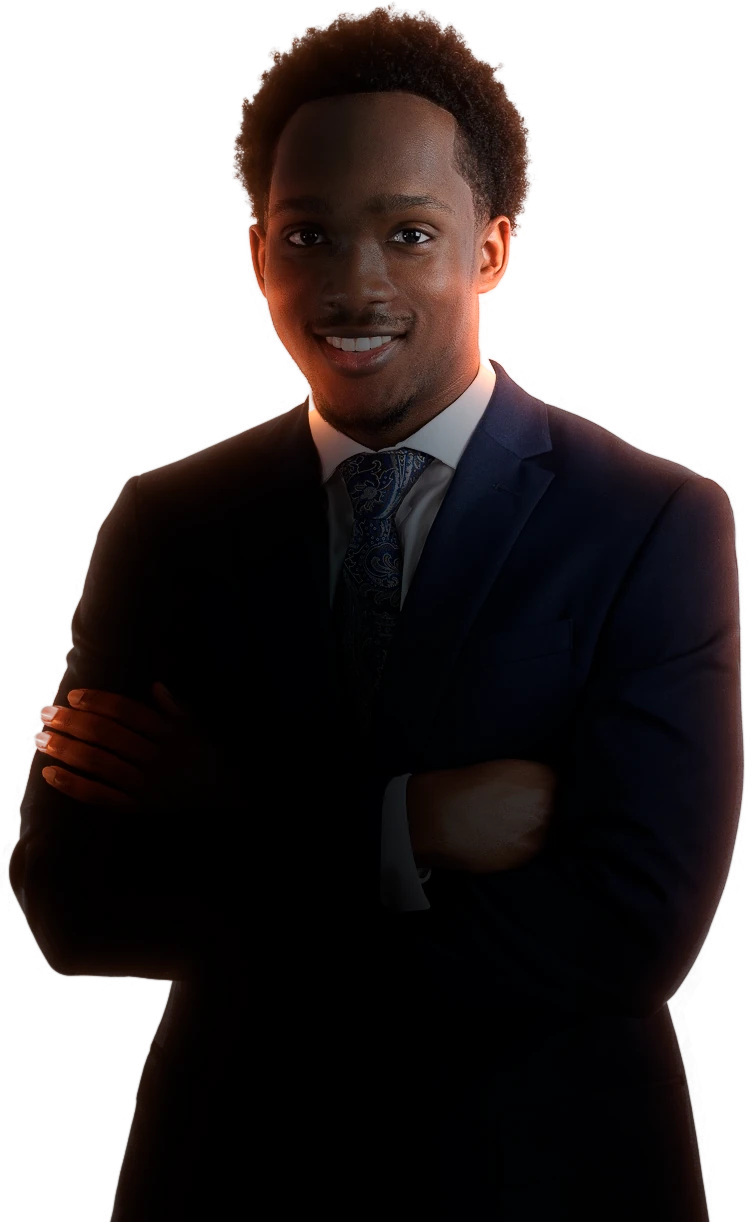
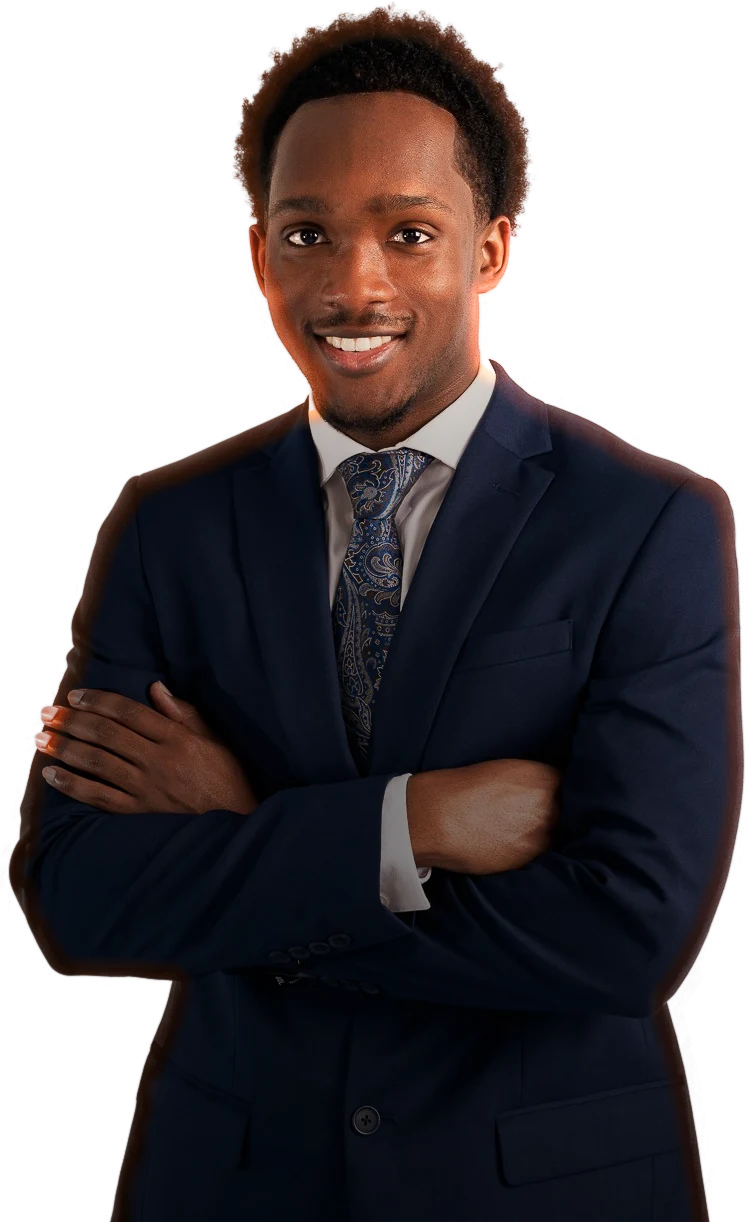
Use the brighter hero portrait, matching portfolio2
Brings over the warmer re-light of the hero cut-out from portfolio2: the
face kept near studio exposure with a warm key light from camera-right,
the suit falling off into the red. Same alpha and size, so the hero
safe-zone check still passes at all nine viewports.

- assets/images/home/hero-reach.webp: the brighter version
- tools/relight-hero.py: the script that produces it
- README and the hero alt text describe the new grade
- og-home.jpg re-rendered from the new hero

Both repos are now identical.

Claude-Session: https://claude.ai/code/session_01Wksg97bj4J1xHZUjKxUufA

diff --git a/index.html b/index.html
@@ -75,7 +75,7 @@
         <img class="home-hero__sky" src="assets/images/home/nashville.svg" alt="" width="1600" height="324" decoding="async">
         <p class="home-hero__word" aria-hidden="true">Reach</p>
         <figure class="home-hero__figure">
-          <img src="assets/images/home/hero-reach.webp" alt="Emmanuel Appiadjei in a navy suit, arms crossed, lit low against an orange backdrop" width="754" height="1222" fetchpriority="high" decoding="async">
+          <img src="assets/images/home/hero-reach.webp" alt="Emmanuel Appiadjei in a navy suit, arms crossed, lit warm against an orange backdrop" width="754" height="1222" fetchpriority="high" decoding="async">
         </figure>
       </div>
     </section>

diff --git a/tools/relight-hero.py b/tools/relight-hero.py
@@ -1,0 +1,75 @@
+"""Regrade the hero cut-out from the studio original.
+
+usage: python3 tools/relight-hero.py images/portrait-studio-arms.jpg \
+         assets/images/home/hero-reach.webp out.webp [core-erosion=15]
+
+The cut-out is a 1:1 crop of the original at (168, 128). Its alpha (and the
+amber glow painted into the soft edge) is kept; the interior is relit from
+the original: face near studio exposure, warm key from camera-right where
+the hero glow sits, body falling off into the red.
+"""
+import sys
+import numpy as np
+from PIL import Image, ImageFilter
+orig_p, cut_p, out_p = sys.argv[1:4]
+cut = Image.open(cut_p).convert('RGBA')
+W, H = cut.size
+alpha = np.asarray(cut)[..., 3].astype(np.float32) / 255
+src = Image.open(orig_p).convert('RGB').crop((168, 128, 168 + W, 128 + H))
+rgb = np.asarray(src).astype(np.float32) / 255
+lin = rgb ** 2.2
+solid = (alpha > 0.98).astype(np.float32)
+er = np.asarray(Image.fromarray((solid*255).astype(np.uint8)).filter(ImageFilter.MinFilter(7))).astype(np.float32)/255
+num = np.zeros_like(lin); den = np.zeros_like(er)
+for r in (4, 10, 24):
+    bl = lambda a: np.asarray(Image.fromarray(a).filter(ImageFilter.GaussianBlur(r))).astype(np.float32)
+    n = np.dstack([bl((lin[..., i]*er*255).astype(np.uint8)) for i in range(3)])/255
+    d = bl((er*255).astype(np.uint8))/255
+    m = (den < 0.05)
+    num[m] = n[m]; den[m] = d[m]
+fill = num / np.maximum(den, 1e-3)[..., None]
+lin = lin * er[..., None] + np.clip(fill, 0, 1) * (1 - er[..., None])
+
+yy, xx = np.mgrid[0:H, 0:W].astype(np.float32)
+u, v = xx / W, yy / H
+
+# Ambient: darken the body toward the bottom so the suit sinks into the red,
+# but keep the head near studio exposure.
+head = np.exp(-(((u - 0.505) / 0.24) ** 2 + ((v - 0.17) / 0.17) ** 2))
+fall = np.clip(1 - (v - 0.22) / 0.78, 0, 1)
+ambient = 0.10 + 0.16 * fall + 0.62 * head
+
+# Key light from camera-right / above, where the hero's amber glow sits.
+key = np.clip(0.5 + 0.9 * (u - 0.5), 0, 1) * np.clip(1.2 - v * 1.1, 0, 1)
+key = key * (0.35 + 0.65 * head)
+gain = ambient + 0.30 * key
+
+# Warm the light: amber key, slightly cooler shadows kept dark.
+warm = np.stack([1.10, 0.93, 0.78])
+light = gain[..., None] * (1 + (warm - 1) * np.clip(key + 0.4 * head, 0, 1)[..., None])
+out = lin * light
+
+# Rim light along the silhouette, stronger on the glow side.
+a_img = Image.fromarray((alpha * 255).astype(np.uint8))
+inner = np.asarray(a_img.filter(ImageFilter.MinFilter(9)).filter(ImageFilter.GaussianBlur(6))).astype(np.float32) / 255
+rim = np.clip(alpha - inner, 0, 1)
+rim = np.asarray(Image.fromarray((rim * 255).astype(np.uint8)).filter(ImageFilter.GaussianBlur(3))).astype(np.float32) / 255
+rim *= 0.35 + 0.65 * np.clip(u * 1.4 - 0.2, 0, 1)
+rim *= np.clip(1.25 - v, 0.2, 1)
+out += rim[..., None] * np.array([1.0, 0.55, 0.22]) * 0.32
+
+# Soft filmic shoulder so the white shirt and teeth don't clip.
+out = out / (1 + 0.35 * out)
+out = out / (1 / (1 + 0.35))
+res = np.clip(out, 0, 1) ** (1 / 2.2)
+# Gentle contrast S-curve.
+res = res + 0.12 * (res - 0.5) * (1 - np.abs(2 * res - 1))
+res = np.clip(res, 0, 1)
+# The cut-out's soft edge carries a painted amber glow; keep those pixels from
+# the existing cut-out and use the relit photo only for the solid interior.
+cut_rgb = np.asarray(cut)[..., :3].astype(np.float32) / 255
+core = Image.fromarray(((alpha > 0.995) * 255).astype(np.uint8)).filter(ImageFilter.MinFilter(int(sys.argv[4]) if len(sys.argv) > 4 else 15))
+core = np.asarray(core.filter(ImageFilter.GaussianBlur(4))).astype(np.float32)[..., None] / 255
+res = res * core + cut_rgb * (1 - core)
+img = np.dstack([res * 255, alpha * 255]).astype(np.uint8)
+Image.fromarray(img, 'RGBA').save(out_p, 'WEBP', quality=88, method=6)

diff --git a/README.md b/README.md
@@ -224,9 +224,11 @@ reaches the top of the viewport.
 
 The hero portrait (`assets/images/home/hero-reach.webp`) is the studio photo
 `images/portrait-studio-arms.jpg` with the background removed and a light and
-colour grade to match the orange reference: darker overall, light from one
-side, a warm glow along the edges. Nothing in the photo is generated or
-reshaped; the grade only changes light and colour.
+colour grade to match the orange hero: the face kept near studio exposure with
+a warm key light from camera-right (where the hero's amber glow sits), the suit
+falling off into the red, and a warm glow along the edges. Regenerate it with
+`tools/relight-hero.py`. Nothing in the photo is generated or reshaped; the
+grade only changes light and colour.
 
 ### Hero safe zone
 
